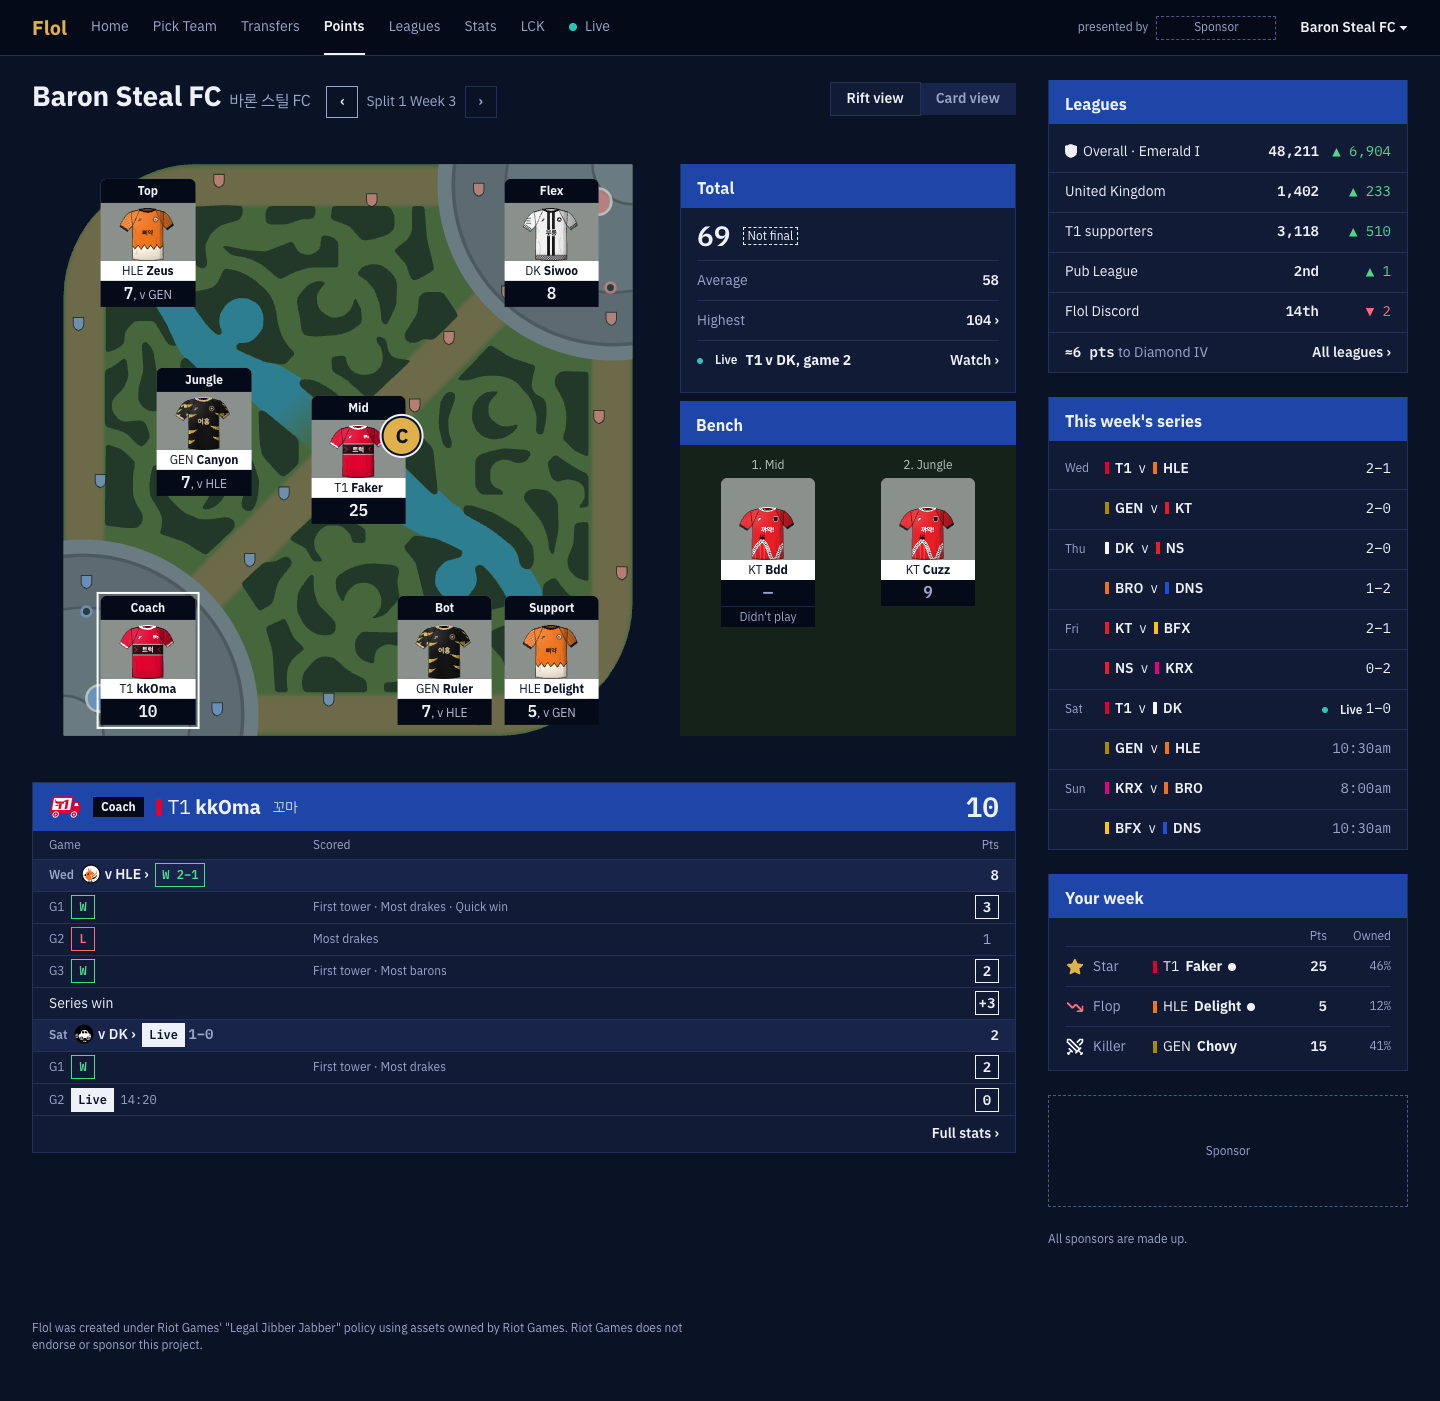
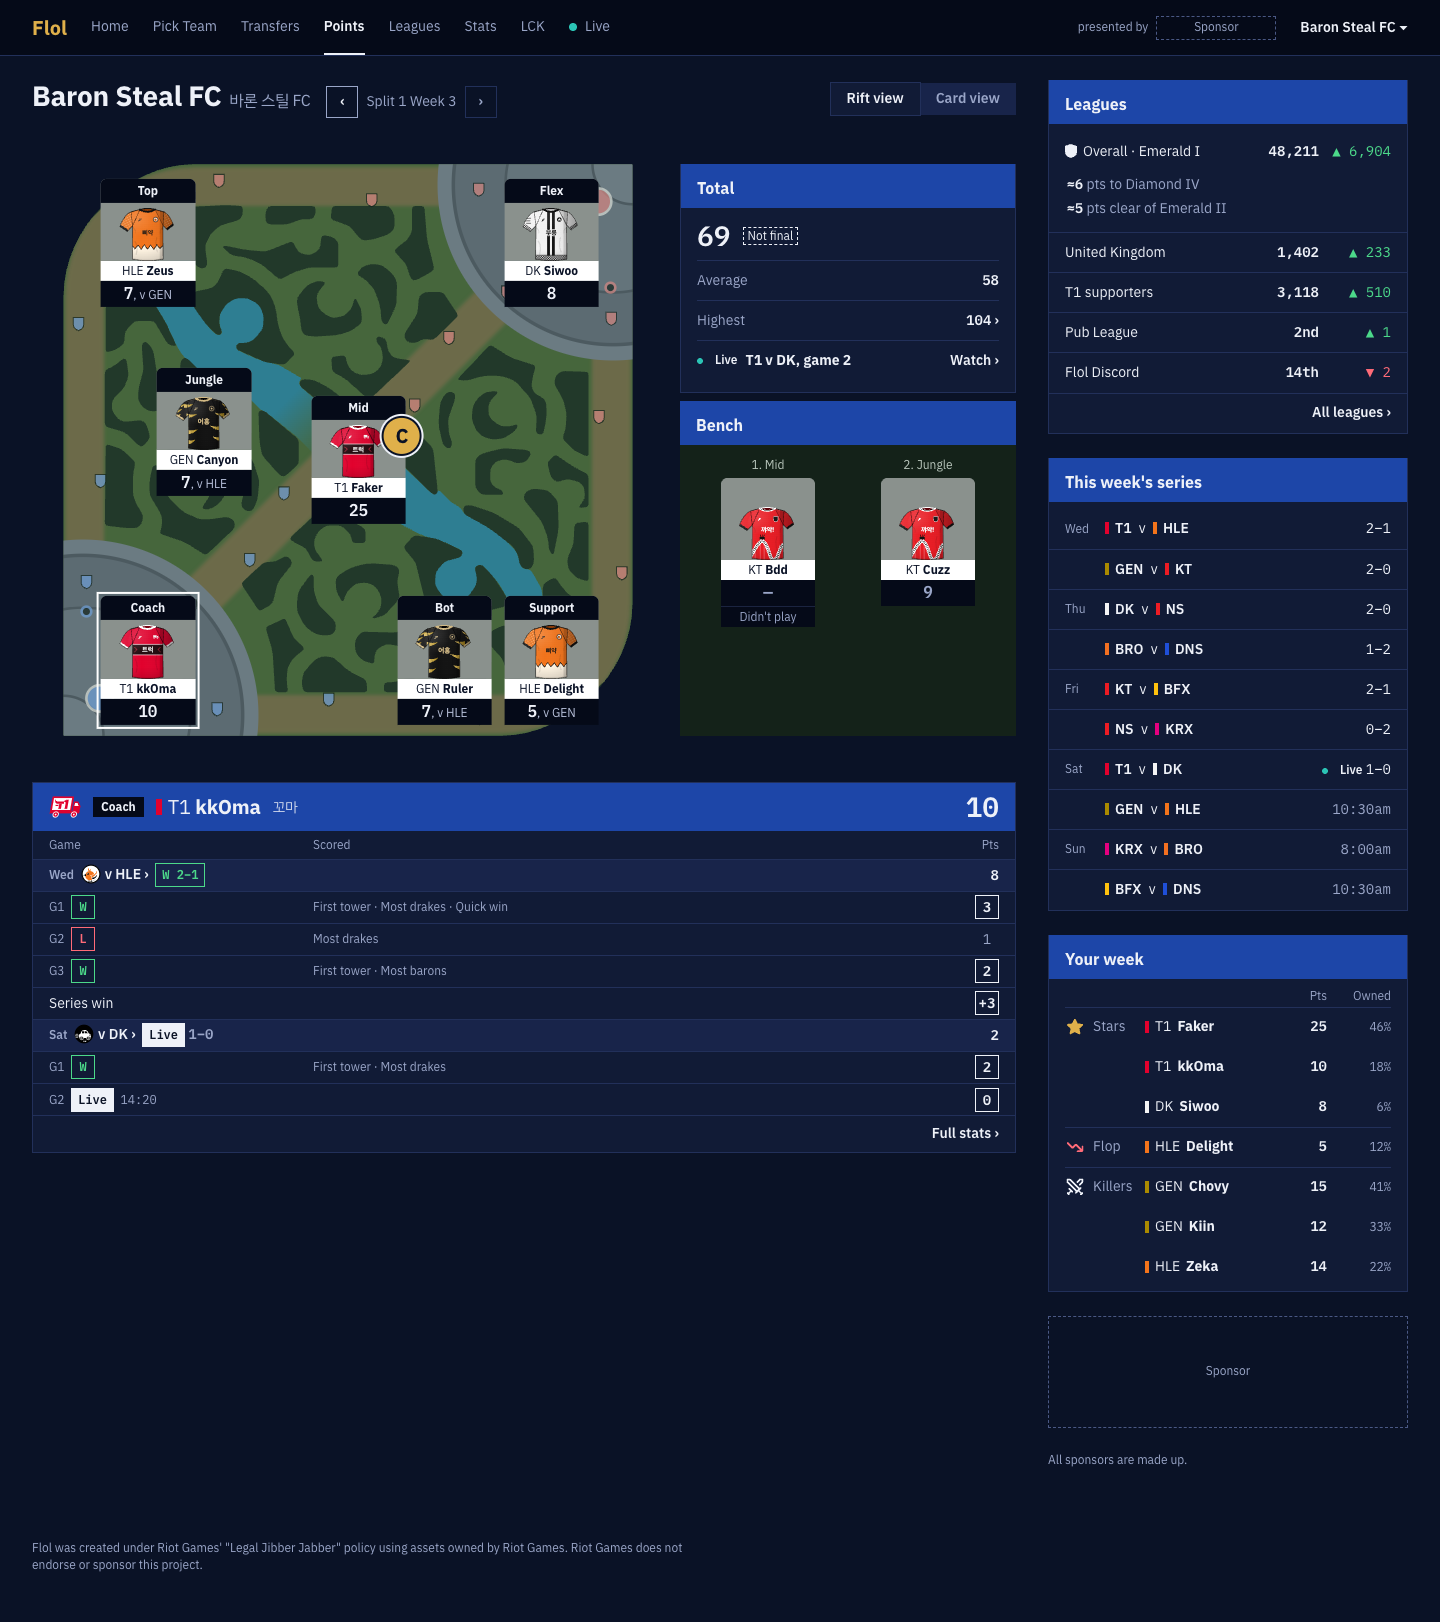
docs: Points redrawn with three Stars, a Flop and three Killers, and both tier gaps

diff --git a/docs/design/approved/points/render.js b/docs/design/approved/points/render.js
@@ -72,11 +72,16 @@
     Flop: ico('<path d="M3 7l6 6 4-4 8 8M21 11v6h-6"/>', "flop"),
     Killer: ico('<path d="M14.500 17.500 3 6V3h3l11.500 11.500M13 19l6-6M16 16l4 4M19 21l2-2M14.500 6.500 18 3h3v3l-3.500 3.500M5 14l4 4M7 17l-3 3M3 19l2 2"/>', "killer"),
   };
-  const PICK_TEAM = { Faker: "T1", Delight: "HLE", Chovy: "GEN" };
+  const PICK_TEAM = { Faker: "T1", kkOma: "T1", Siwoo: "DK", Delight: "HLE", Chovy: "GEN", Zeka: "HLE", Kiin: "GEN" };
   const who = (name) => `<i class="team__bar" style="background:${BAR[PICK_TEAM[name]]}"></i><span class="who__team">${PICK_TEAM[name]}</span> <b>${name}</b>`;
-  const pick = (word, name, mine, pts, owned) => `<div class="pick"><dt class="fact">${ICON[word]}${word}</dt><dd>${who(name)}${mine ? '<i class="yours" title="Yours"></i>' : ""}</dd><dd class="pick__figs"><b class="fig">${pts}</b><span class="small mid fig">${owned}%</span></dd></div>`;
+  // Three Stars, the Flop, three Killers (spec/12, Points, Your own week): the word and its mark head each group, on its
+  // first row only. Stars are your starters by points x (1 - effective ownership), Killers the players you don't own by
+  // points x effective ownership; the sum ranks them and is never shown. Owned is effective ownership.
+  // No dot here: Stars and the Flop are always yours and Killers never (Craig, 27 Nov 2026).
+  const pick = (word, name, mine, pts, owned, first = true) => `<div class="pick${first ? " pick--first" : ""}"><dt class="fact">${first ? ICON[word === "Stars" ? "Star" : word === "Killers" ? "Killer" : word] + word : ""}</dt><dd>${who(name)}</dd><dd class="pick__figs"><b class="fig">${pts}</b><span class="small mid fig">${owned}%</span></dd></div>`;
+  const group = (word, rows, mine) => rows.map(([name, pts, owned], i) => pick(word, name, mine, pts, owned, i === 0)).join("");
   const yourWeek = `<section class="tpanel side-panel side-panel--pad" aria-label="Your week"><h2 class="tpanel__title">Your week</h2>
-    <dl class="picks"><div class="pick pick--head small mid"><dt></dt><dd></dd><dd class="pick__figs"><span>Pts</span><span>Owned</span></dd></div>${pick("Star", "Faker", true, 25, 46)}${pick("Flop", "Delight", true, 5, 12)}${pick("Killer", "Chovy", false, 15, 41)}</dl>
+    <dl class="picks"><div class="pick pick--head small mid"><dt></dt><dd></dd><dd class="pick__figs"><span>Pts</span><span>Owned</span></dd></div>${group("Stars", [["Faker", 25, 46], ["kkOma", 10, 18], ["Siwoo", 8, 6]], true)}${pick("Flop", "Delight", true, 5, 12)}${group("Killers", [["Chovy", 15, 41], ["Kiin", 12, 33], ["Zeka", 14, 22]], false)}</dl>
   </section>`;
 
   // Under the Rift: the tapped player's week, a series a column, a game a row; the points boxed when counted.
@@ -105,9 +110,11 @@
   const LEAGUES = [["Overall · Emerald I", "48,211", 1, "6,904"], ["United Kingdom", "1,402", 1, "233"], ["T1 supporters", "3,118", 1, "510"], ["Pub League", "2nd", 1, "1"], ["Flol Discord", "14th", -1, "2"]];
   // Overall's tier shield: one --text fill for every tier (plate.md, Colour).
   const SHIELD = '<svg class="shield" viewBox="0 0 12 14" width="12" height="14" aria-hidden="true"><path d="M6 0 12 2v6c0 3-2.5 5-6 6-3.5-1-6-3-6-6V2z" fill="currentColor"/></svg>';
+  // Both tier gaps, under Overall's row: the points to promote and the points clear of demotion (spec/08, Overall tiers).
+  const GAPS = '<tr class="lg__gaps"><td colspan="3"><span class="mid"><b class="fig">≈6</b> pts to Diamond IV</span><span class="mid"><b class="fig">≈5</b> pts clear of Emerald II</span></td></tr>';
   const leagues = `<section class="tpanel side-panel" aria-label="Leagues"><h2 class="tpanel__title">Leagues</h2>
-    <table class="lg">${LEAGUES.map(([name, rank, dir, by]) => `<tr><td>${name.startsWith("Overall") ? SHIELD : ""}${name}</td><td class="num"><b class="fig">${rank}</b></td><td class="num fig ${dir > 0 ? "up" : "down"}">${dir > 0 ? "▲" : "▼"} ${by}</td></tr>`).join("")}</table>
-    <p class="lg__foot"><span><b class="fig">≈6 pts</b> <span class="mid">to Diamond IV</span></span><a class="link" href="#">All leagues ›</a></p>
+    <table class="lg">${LEAGUES.map(([name, rank, dir, by]) => `<tr><td>${name.startsWith("Overall") ? SHIELD : ""}${name}</td><td class="num"><b class="fig">${rank}</b></td><td class="num fig ${dir > 0 ? "up" : "down"}">${dir > 0 ? "▲" : "▼"} ${by}</td></tr>${name.startsWith("Overall") ? GAPS : ""}`).join("")}</table>
+    <p class="lg__foot"><a class="link" href="#">All leagues ›</a></p>
   </section>`;
   const SERIES = [["Wed", "T1", "HLE", "2–1"], ["Wed", "GEN", "KT", "2–0"], ["Thu", "DK", "NS", "2–0"], ["Thu", "BRO", "DNS", "1–2"], ["Fri", "KT", "BFX", "2–1"], ["Fri", "NS", "KRX", "0–2"], ["Sat", "T1", "DK", "1–0", "Live"], ["Sat", "GEN", "HLE", "10:30am"], ["Sun", "KRX", "BRO", "8:00am"], ["Sun", "BFX", "DNS", "10:30am"]];
   const bar = (code) => `<i class="team__bar" style="background:${BAR[code]}"></i>`;

diff --git a/docs/design/approved/points/points.html b/docs/design/approved/points/points.html
@@ -47,8 +47,9 @@
 .figs dd { font-weight: 600; }
 .total__live { display: flex; align-items: center; gap: 8px; min-height: var(--row); border-top: 1px solid var(--line); }
 .total__live .link { margin-left: auto; }
-.picks .pick { display: grid; grid-template-columns: 88px 1fr 96px; align-items: center; min-height: var(--row); border-top: 1px solid var(--line); }
+.picks .pick { display: grid; grid-template-columns: 80px 1fr 96px; align-items: center; min-height: var(--row); border-top: 1px solid var(--line); }
 .picks .pick--head { min-height: 20px; border-top: 0; }
+.picks .pick:not(.pick--first):not(.pick--head) { border-top-color: transparent; }
 .pick dt { color: var(--mid); }
 .pick dd { display: flex; align-items: center; gap: 6px; }
 .pick dd .team__bar { margin-right: 0; }
@@ -105,7 +106,10 @@
 .lg td:last-child { width: 88px; }
 .up { color: var(--up); }
 .down { color: var(--down); }
-.lg__foot { display: flex; justify-content: space-between; align-items: center; min-height: var(--row); margin: 0 -16px; padding: 0 16px; border-top: 1px solid var(--line); }
+.lg .lg__gaps td { border-top: 0; height: auto; padding: 0 0 12px 18px; }
+.lg__gaps b { color: var(--text); }
+.lg__gaps td > span { display: block; line-height: 24px; white-space: nowrap; }
+.lg__foot { display: flex; justify-content: flex-end; align-items: center; min-height: var(--row); margin: 0 -16px; padding: 0 16px; border-top: 1px solid var(--line); }
 .ws td:first-child { width: 56px; }
 .ws b { font-weight: 600; }
 </style>

diff --git a/docs/design/approved/points/README.md b/docs/design/approved/points/README.md
@@ -26,9 +26,9 @@ Your gameweek. Reached from **Points** in the top bar. Drawn at 1440 in Pick Tea
    - Before any tap it shows the Captain's week. The tapped tile is outlined.
    - A third series in a week is a third header row with its games.
 6. **The Rift, its panels and the card stay on screen** while the side column scrolls.
-7. **Leagues**, the side column's first panel: each league with your rank and its move, green up and red down; Overall with its tier and shield; `≈6 pts to Diamond IV` and All leagues ›.
+7. **Leagues**, the side column's first panel: each league with your rank and its move, green up and red down; Overall with its tier and shield; under Overall, both tier gaps, `≈6 pts to Diamond IV` and `≈5 pts clear of Emerald II`, the number alone in bold; All leagues › alone at the foot (Craig, 27 Nov 2026).
 8. **This week's series:** each with both teams' bars, its result, `Live` with the score, or its time.
-9. **Your week**, below the series (Craig, 16 Nov 2026): Star, Flop and Killer, each with points and ownership; a dot marks a player of yours. Each carries its mark before the word, Killer's crossed swords (plate.md, Parts, A fact's mark), and the player his team's bar and code (Craig, 27 Nov 2026).
+9. **Your week**, below the series (Craig, 16 Nov 2026; Stars and Killers, 27 Nov 2026: "Approve as recommended"): three Stars, the Flop and three Killers, each with points and effective ownership under `Pts` and `Owned`, in the order spec/12's sums give, so Killers' points can read out of order. Each group's word and mark sit on its first row only, with no rule inside a group (plate.md, Parts, A fact's mark); each player has his team's bar and code. No dot here: Stars and the Flop are always yours, Killers never. The coach has no tag, as on Home.
 10. Then the sponsor slot.
 
 ## The card round, 27 Nov 2026

diff --git a/spec/08-leagues.md b/spec/08-leagues.md
@@ -87,8 +87,8 @@ Overall shows each manager's place as a LoL ranked tier, Iron to Challenger (Cra
     ([approved picture](../docs/design/approved/home/)).
   - Points: the tier, the points to promote and the points clear of demotion, at every tier
     (Craig, 27 Nov 2026, over 18 Nov's Challenger only). Each is the gap to the manager at that
-    cut-off now, shown with ≈ as others still score. Example: `≈6 pts to Diamond IV · ≈5 clear of
-    Platinum I`. Challenger has nothing above and Iron IV nothing below. Home doesn't show them.
+    cut-off now, shown with ≈ as others still score. Example: `≈6 pts to Diamond IV · ≈5 pts clear
+    of Emerald II`. Challenger has nothing above and Iron IV nothing below. Home doesn't show them.
   - The manager's profile, by the team name in its banner, as on Home: the shield, tier, rank and
     its move. It shows there only, not again in the Leagues column (Craig, 18 Nov 2026, over the
     approved picture, which puts it beside Overall).
